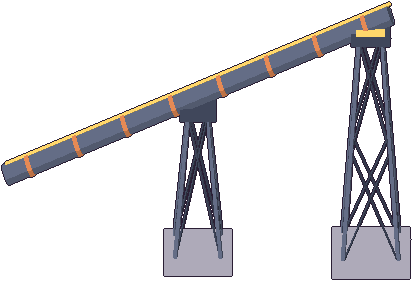
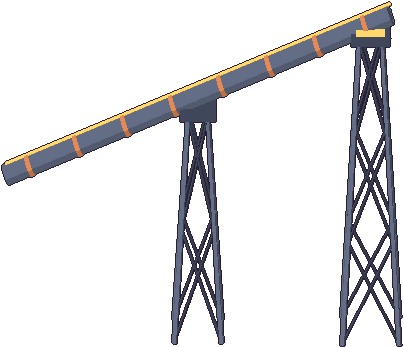
Art: the sky rail's piers and pylons reach 2.5 m under their base (SINK)
The hub's rail stands level with its station out over the sea, about a metre above the water: its feet still reach
it. On land the extra is under the ground; the flat pictures stop at the ground as before.

Claude-Session: https://claude.ai/code/session_01CrzuM9kHPj4M5sDxUnnuhR

Changed region(s): [[0.0, 0.0, 1.0, 1.0]]

diff --git a/tools/build-station-trains.py b/tools/build-station-trains.py
@@ -186,16 +186,18 @@ def tear(name, cols):
 
 
 # ================================================================ Skyline Station
-def lattice(L, x, y, h, foot=0.9, top=0.35, col=STEEL, name='pylon', step=3.0):
-    """a lattice pylon: four legs leaning in from a concrete footing, braced in X every few metres, a cap on top"""
-    L.append(box(x, y, 0, foot * 2 + 0.6, foot * 2 + 0.6, 0.4, CONCRETE, 'stone', name + ' footing'))
-    at = lambda z, sx, sy: (x + sx * (foot + (top - foot) * z / h), y + sy * (foot + (top - foot) * z / h), z)
+def lattice(L, x, y, h, foot=0.9, top=0.35, col=STEEL, name='pylon', step=3.0, base=0.0):
+    """a lattice pylon: four legs leaning in from a concrete footing at base (under the ground: SINK), braced in X every
+    few metres, a cap on top at h"""
+    L.append(box(x, y, base, foot * 2 + 0.6, foot * 2 + 0.6, 0.4, CONCRETE, 'stone', name + ' footing'))
+    at = lambda z, sx, sy: (x + sx * (foot + (top - foot) * (z - base) / (h - base)),
+                            y + sy * (foot + (top - foot) * (z - base) / (h - base)), z)
     for sx in (-1, 1):
         for sy in (-1, 1):
-            L.append(limb(at(0.3, sx, sy), at(h, sx, sy), 0.08, 0.06, col, 'metal', name + ' leg', 5))
-    n = max(1, int(round((h - 0.3) / step)))
+            L.append(limb(at(base + 0.3, sx, sy), at(h, sx, sy), 0.08, 0.06, col, 'metal', name + ' leg', 5))
+    n = max(1, int(round((h - base - 0.3) / step)))
     for i in range(n):
-        z0, z1 = 0.3 + (h - 0.3) * i / n, 0.3 + (h - 0.3) * (i + 1) / n
+        z0, z1 = base + 0.3 + (h - base - 0.3) * i / n, base + 0.3 + (h - base - 0.3) * (i + 1) / n
         for (ax, ay), (bx, by) in (((-1, -1), (1, -1)), ((1, -1), (1, 1)), ((1, 1), (-1, 1)), ((-1, 1), (-1, -1))):
             L.append(limb(at(z0, ax, ay), at(z1, bx, by), 0.035, 0.035, STEEL_D, 'metal', name + ' brace', 4))
             L.append(limb(at(z0, bx, by), at(z1, ax, ay), 0.035, 0.035, STEEL_D, 'metal', name + ' brace', 4))
@@ -316,6 +318,9 @@ def station():
 RAIL_LEN = 12.0
 Z_FLAT = 0.13  # the rail's middle out of the station (its top 0.45 m up)
 CLIMB = 5.0  # what a straight piece climbs in its 12 m
+# how far the rail's piers and pylons reach under their base: the hub's rail stands level with its station (a
+# placement's y) out over the sea, about a metre lower, so its feet still go into the water (under the ground on land)
+SINK = 2.5
 
 
 def rail_piece(z0, z1, shape):
@@ -330,14 +335,14 @@ def rail_piece(z0, z1, shape):
     beam(L, pts)
     h = z1 - 0.69  # the cap and the saddle under the rail's bottom
     if h < 1.5:
-        L += [box(RAIL_LEN / 2 - 0.6, 0, 0, 1.1, 1.4, max(0.2, h), CONCRETE, 'stone', 'pier'),
+        L += [box(RAIL_LEN / 2 - 0.6, 0, -SINK, 1.1, 1.4, max(0.2, h) + SINK, CONCRETE, 'stone', 'pier'),
               box(RAIL_LEN / 2 - 0.6, 0, max(0.2, h), 1.3, 1.6, 0.12, STEEL_D, 'metal', 'pier cap')]
     else:
-        lattice(L, RAIL_LEN / 2 - 0.6, 0, h)
+        lattice(L, RAIL_LEN / 2 - 0.6, 0, h, base=-SINK)
         L.append(box(RAIL_LEN / 2 - 0.6, 0, h + 0.25, 0.9, 1.0, 0.12, A['brass'], 'metal', 'saddle'))
     if shape != 'flat' and z1 - z0 > 4:  # a mid pylon under the long climbs
         zm = pts[4][2] - 0.57
-        lattice(L, 0, 0, zm, foot=0.75, top=0.3)
+        lattice(L, 0, 0, zm, foot=0.75, top=0.3, base=-SINK)
     return rec(L, 0.7)
 
 
@@ -379,7 +384,7 @@ def sky_portal(tear_pic):
     L = []
     xt, zt = 2.0, Z_TOP + 0.32 + 1.6  # the tear's middle
     beam(L, [(-8.0, 0, Z_TOP), (-5.0, 0, Z_TOP), (-2.0, 0, Z_TOP)])
-    lattice(L, -4.0, 0, Z_TOP - 0.57)
+    lattice(L, -4.0, 0, Z_TOP - 0.57, base=-SINK)
     L += [box(-1.7, 0, Z_TOP - 0.45, 0.6, 1.4, 0.95, STEEL_D, 'metal', 'launch lip'),
           box(-1.42, 0, Z_TOP + 0.1, 0.06, 1.2, 0.3, '#E8C040', 'plain', 'lip stripe')]
     for sy in (-1, 1):  # the lip's beacons
